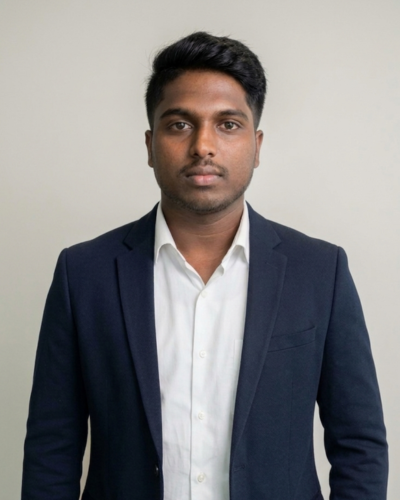
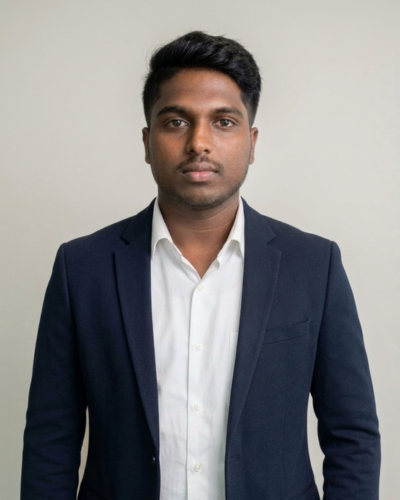
updated

diff --git a/index.html b/index.html
@@ -18,15 +18,15 @@
 <body>
 
     <!-- Navbar -->
-    <nav class="navbar navbar-expand-lg ">
+    <nav class="navbar navbar-expand-lg glass-nav  ">
         <div class="container">
 
             <button class="navbar-toggler  " data-bs-toggle="collapse" data-bs-target="#menu">
                 <span class="navbar-toggler-icon nav-icon"></span>
             </button>
 
-            <div class="collapse navbar-collapse" id="menu">
-                <ul class="navbar-nav me-auto">
+            <div class="collapse navbar-collapse " id="menu">
+                <ul class="navbar-nav  ms-auto">
                     <li class="nav-item"><a class="nav-link" href="#about">About</a></li>
                     <li class="nav-item"><a class="nav-link" href="#skills">Skills</a></li>
                     <li class="nav-item"><a class="nav-link" href="#projects">Projects</a></li>
@@ -37,47 +37,38 @@
     </nav>
 
     <!-- Hero -->
-    <section class="hero text-center text-white p-5">
-
-        <div class="container ">
-            <div class="row align-items-center justify-content-evenly gap-4">
-
-
-                <div class="col-10 col-md-5">
-                    <img class="image" src="Sivanesan.png" alt="logo">
-                </div>
-                <div class="col-10 col-md-5">
-                    <h1 data-aos="zoom-in" class="name-hero ">Hello <br> I'm Sivanesan </h1>
-
-                    <p data-aos="fade-up">
-                        ASP.NET Developer | Web Designer
-                    </p>
-
-                    <a href="#" id="hireBtn" class="btn btn-warning btn-lg mt-3">
-                        Hire Me
-                    </a>
-
-                    <div id="contactOptions" class="contact-box">
-
-                        <a href="https://wa.me/918870900440" target="_blank" class="btn btn-success">
-                            <i class="fa-brands fa-whatsapp" style="color: rgb(255, 255, 255);"></i> WhatsApp
-                        </a>
-
-                        <a href="tel:+918870900440" class="btn btn-primary">
-                            <i class="fa-solid fa-phone" style="color: rgb(255, 255, 255);"></i> Call
-                        </a>
-
-                    </div>
-                </div>
-
-            </div>
-
-
-
-
+   <section class="container-fluid hero text-center text-white d-flex align-items-center overflow-hidden" >
+    <div class="row w-100 d-flex justify-content-center align-items-center">
+        
+        <div class="col-12 col-md-5 col-lg-4 mb-4 mb-md-0 ">
+            <img class="image  " src="Sivanesan.png" alt="logo"  >
         </div>
 
-    </section>
+        <div class="col-12 col-md-5">
+            <h1 data-aos="zoom-in" class="name-hero display-4 fw-bold">
+                Hello <br> I'm Sivanesan 
+            </h1>
+
+            <p data-aos="fade-up" class="lead">
+                ASP.NET Developer | Web Designer
+            </p>
+
+            <a href="#" id="hireBtn" class="btn btn-warning btn-lg mt-3">
+                Hire Me
+            </a>
+
+            <div id="contactOptions" class="contact-box mt-4">
+                <a href="https://wa.me/918870900440" target="_blank" class="btn btn-success me-2">
+                    <i class="fa-brands fa-whatsapp"></i> WhatsApp
+                </a>
+                <a href="tel:+918870900440" class="btn btn-primary">
+                    <i class="fa-solid fa-phone"></i> Call
+                </a>
+            </div>
+        </div>
+
+    </div>
+</section>
 
     <!-- About -->
     <section id="about" class="container py-5 overflow-hidden">
@@ -233,11 +224,6 @@
                     <a href="https://www.linkedin.com/in/sivanesan-k-dot-net-developer" target="_blank" class="text-decoration-none text-light">
                         <i class="fa-brands fa-square-linkedin" style="color: rgb(245, 158, 11);"></i>Sivanesan K</a>
                 </div>
-
-
-
-
-
 
             </div>
 

diff --git a/style.css b/style.css
@@ -18,7 +18,22 @@ body {
 .nav-link:hover {
   color: #F59E0B !important;
 }
+.glass-nav {
+  position: fixed;
+  
+ width: 100%;
+  
+  z-index: 1000;
 
+  /* Glassmorphism Core Properties */
+  background: rgba(64, 64, 229, 0.538); /* Transparent white */
+  backdrop-filter: blur(10px);           /* The frosted blur */
+  -webkit-backdrop-filter: blur(10px);    /* Safari support */
+  
+  /* Adding depth with borders and shadows */
+  border: 1px solid rgba(255, 255, 255, 0.2);
+  box-shadow: 0 8px 32px 0 rgba(0, 0, 0, 0.37);
+}
 /* Hero Section */
 
 .hero {
@@ -27,7 +42,12 @@ body {
   align-items: center;
   justify-content: center;
   text-align: center;
-  background: linear-gradient(135deg, #4F46E5, #06B6D4);
+  background-color: #0d0d0d; /* Dark base */
+    background-image: 
+        radial-gradient(at 0% 0%, rgb(35, 19, 116) 0, transparent 50%), 
+        radial-gradient(at 50% 0%, hsla(225,39%,30%,1) 0, transparent 50%), 
+        radial-gradient(at 100% 0%, hsla(339,49%,30%,1) 0, transparent 50%);
+    position: relative;
   color: white;
 }
 
@@ -61,14 +81,15 @@ body {
 
 .image {
   background-color: #F59E0B;
-  border-top-left-radius: 60px;
-  border-bottom-right-radius: 60px;
+  /* border-top-left-radius: 60px;
+  border-bottom-right-radius: 60px; */
+  border-radius: 50%;
   box-shadow: 2px 2px 10px #220974;
-  width: 100%;
-  padding: 12px;
  
-  height: auto;
+  padding: 8px;
  
+ height: auto;
+ width: 100%;
 }
 
 /* Section title */
@@ -163,35 +184,22 @@ footer {
   background-color: #4F46E5 !important;
 border-radius: 2px !important;
 }
+
+
+
 @media (max-width:355px) {
 
-  /* .image{
-    height: 250px;
-  } */
+ 
   .name-hero {
     font-size: 30px !important;
   }
-
-  /* img{
-   
-    padding: 12px;
- 
-} */
 }
 
 @media (min-width:356px) and (max-width:576px) {
-  /* .image{
-    height: 300px;
-  } */
+ 
     .name-hero {
     font-size: 40px !important;
   }
 }
 
-@media (min-width:577px) and (max-width:992px) {
-  /* .image{
-    height: 400px;
-
-  } */
-
-}
+ 
